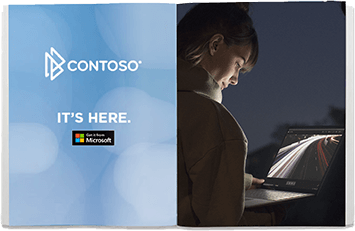
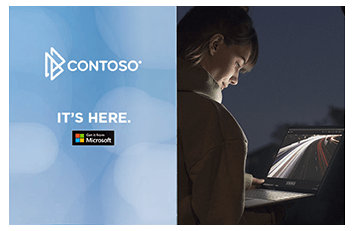
clean up images in section 4

Changed region(s): [[0.0, 0.0, 1.0, 1.0]]

diff --git a/index.html b/index.html
@@ -1748,7 +1748,7 @@
                         <div class="fourths">
                             <img src="assets/store-badge-1.png" alt="Microsoft Store badge at bottom of image">
                         </div>
-                        <div class="thirds">
+                        <div class="thirds centered">
                             <img src="assets/store-badge-2.png" alt="Microsoft Store badge under text">
                         </div>
                         <div class="thirds">

diff --git a/styles/main.css b/styles/main.css
@@ -20,6 +20,8 @@ main > section {
 }
 img {
   max-width: 100%;
+  -ms-flex-item-align: self-end;
+  align-self: self-end;
 }
 .no-padding {
   padding: 0!important;
@@ -580,6 +582,9 @@ img {
 #section-4-9 .half .half .swatch,
 #section-4-9 img .half .swatch {
   grid-column: span 8;
+}
+#section-4-9 .thirds.centered img {
+  margin: 0 auto;
 }
 #section-5-2 .row .thirds {
   grid-template-rows: -webkit-min-content -webkit-min-content;

diff --git a/less/content.less b/less/content.less
@@ -19,7 +19,7 @@ main > section{
 //set items
 img{
     max-width: 100%;
-    //align-self: self-end;  only change for specific images
+    align-self: self-end;
 }
 
 .no-padding {
@@ -672,6 +672,11 @@ img{
             .swatch{
                 grid-column: span 8;
             }
+        }
+    }
+    .thirds.centered {
+        img {
+            margin: 0 auto;
         }
     }
 }
